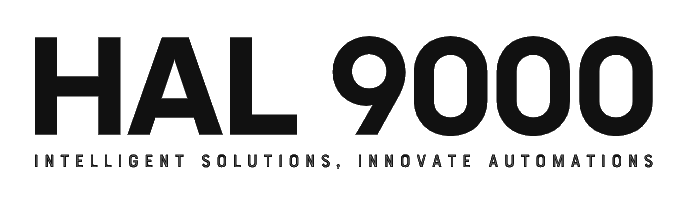
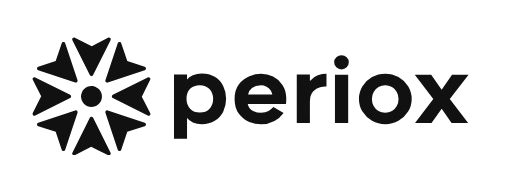
changes company name to periox

Changed region(s): [[0.0308, 0.1676, 0.9846, 0.8659], [0.5231, 0.7263, 0.9846, 0.838]]

diff --git a/index.html b/index.html
@@ -4,7 +4,7 @@
     <meta charset="UTF-8">
     <meta http-equiv="X-UA-Compatible" content="IE=edge">
     <meta name="viewport" content="width=device-width, initial-scale=1.0">
-    <title>HAL 9000 Website</title>
+    <title>PERIOX Website</title>
     <link rel="stylesheet" href="./css/style.css">
     <link rel="stylesheet" href="https://cdnjs.cloudflare.com/ajax/libs/font-awesome/5.15.3/css/all.min.css">
     <script src="https://cdnjs.cloudflare.com/ajax/libs/jquery/3.6.0/jquery.min.js"></script>
@@ -39,7 +39,7 @@
 
   <section id="home" class="home">
       <h1>Bring your Business Online</h1>
-      <h2>with HAL 9000 Services</h2>
+      <h2>with PERIOX Services</h2>
     <div class="wave wave1"></div>
     <div class="wave wave2"></div>
     <div class="wave wave3"></div>
@@ -144,7 +144,7 @@
         <div class="section-head-1 col-sm-12" style="text-align: center;">
           <h4 style="margin-top: -5rem;" id="portfolio"><span>Our</span> Projects</h4>
           
-          <p>The objective of HAL 9000 is to enable a large number of youth to take up <br>industry-relevant skill training that will help them<br> in securing a better livelihood.
+          <p>The objective of PERIOX is to enable a large number of youth to take up <br>industry-relevant skill training that will help them<br> in securing a better livelihood.
             </p>
         </div>
         
@@ -400,7 +400,7 @@
               <div class="accordion">
                   <div class="accordion-header">
                       <span>+</span>
-                      <h3>How do I associate with HAL 9000?</h3>
+                      <h3>How do I associate with PERIOX?</h3>
                   </div>
                   <div class="accordion-body">
                       <p>The process begins when you contact us with your requirements. We analyze your requirements and respond to you. 
@@ -494,7 +494,7 @@
       <div class="container">
           <div class="row align-items-center">
               <div class="col-md-6 copyright" style="color: #fff; font-size: 1.3rem;">
-                  Copyright &copy; 2021 HAL 9000 Website. All Rights Reserved.
+                  Copyright &copy; 2021 PERIOX Website. All Rights Reserved.
               </div>
           </div>
       </div>

diff --git a/careers.html b/careers.html
@@ -4,7 +4,7 @@
     <meta charset="UTF-8">
     <meta http-equiv="X-UA-Compatible" content="IE=edge">
     <meta name="viewport" content="width=device-width, initial-scale=1.0">
-    <title>HAL 9000 Website</title>
+    <title>PERIOX Website</title>
     <link rel="stylesheet" href="./css/careers.css">
     <link rel="stylesheet" href="https://cdnjs.cloudflare.com/ajax/libs/font-awesome/5.15.3/css/all.min.css">
     <script src="https://cdnjs.cloudflare.com/ajax/libs/jquery/3.6.0/jquery.min.js"></script>
@@ -43,7 +43,7 @@
 
     <section id="career-heading" class="career-heading">
         <h1 class="heading">Career</h1>
-        <p>Job Opening in HAL 9000. Apply Now!</p>
+        <p>Job Opening in PERIOX. Apply Now!</p>
     </section>
     <div class="career">
         <div class="career-form">
@@ -151,7 +151,7 @@
         <div class="container">
             <div class="row align-items-center">
                 <div class="col-md-6 copyright" style="color: #fff; font-size: 1.3rem;">
-                    Copyright &copy; 2021 HAL 9000 Website. All Rights Reserved.
+                    Copyright &copy; 2021 PERIOX Website. All Rights Reserved.
                 </div>
             </div>
         </div>

diff --git a/README.md b/README.md
@@ -2,7 +2,7 @@
 
 ## Overview
 
-The project “HAL 9000 Website” is a responsive website made using HTML, CSS, Bootstrap and JavaScript. As it is responsive, it works well on all devices. The website includes modules like About, Services, Portfolio, Team, Career, Contact and FAQ. Whenever anyone submits the contact form or career form, an email is sent on company’s email id so that they get notified about it and can communicate with that person soon. The website contains all the modules that meet the project requirement and is doing all the work accurately.
+The project “PERIOX Website” is a responsive website made using HTML, CSS, Bootstrap and JavaScript. As it is responsive, it works well on all devices. The website includes modules like About, Services, Portfolio, Team, Career, Contact and FAQ. Whenever anyone submits the contact form or career form, an email is sent on company’s email id so that they get notified about it and can communicate with that person soon. The website contains all the modules that meet the project requirement and is doing all the work accurately.
 
 ## Website Link
 
